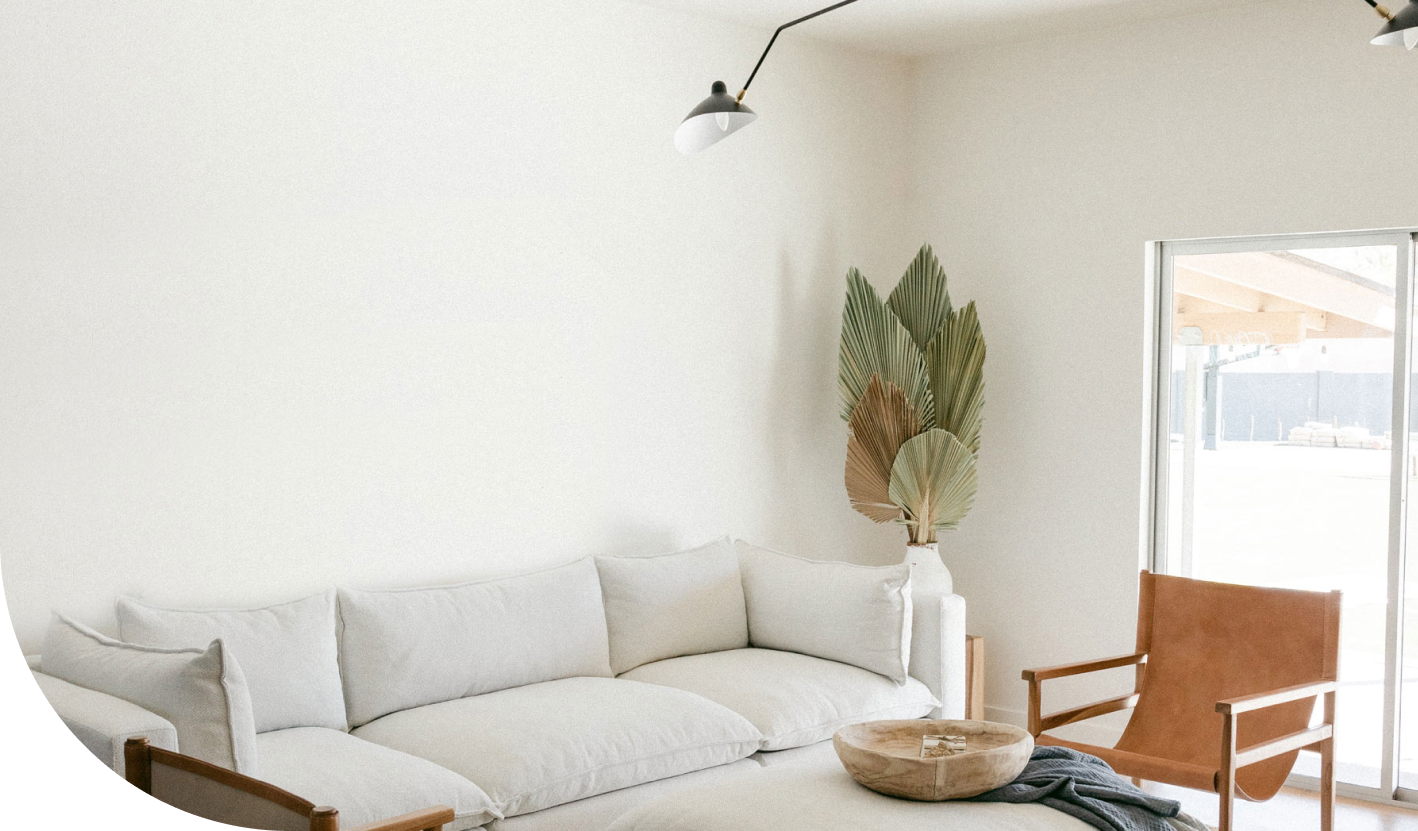
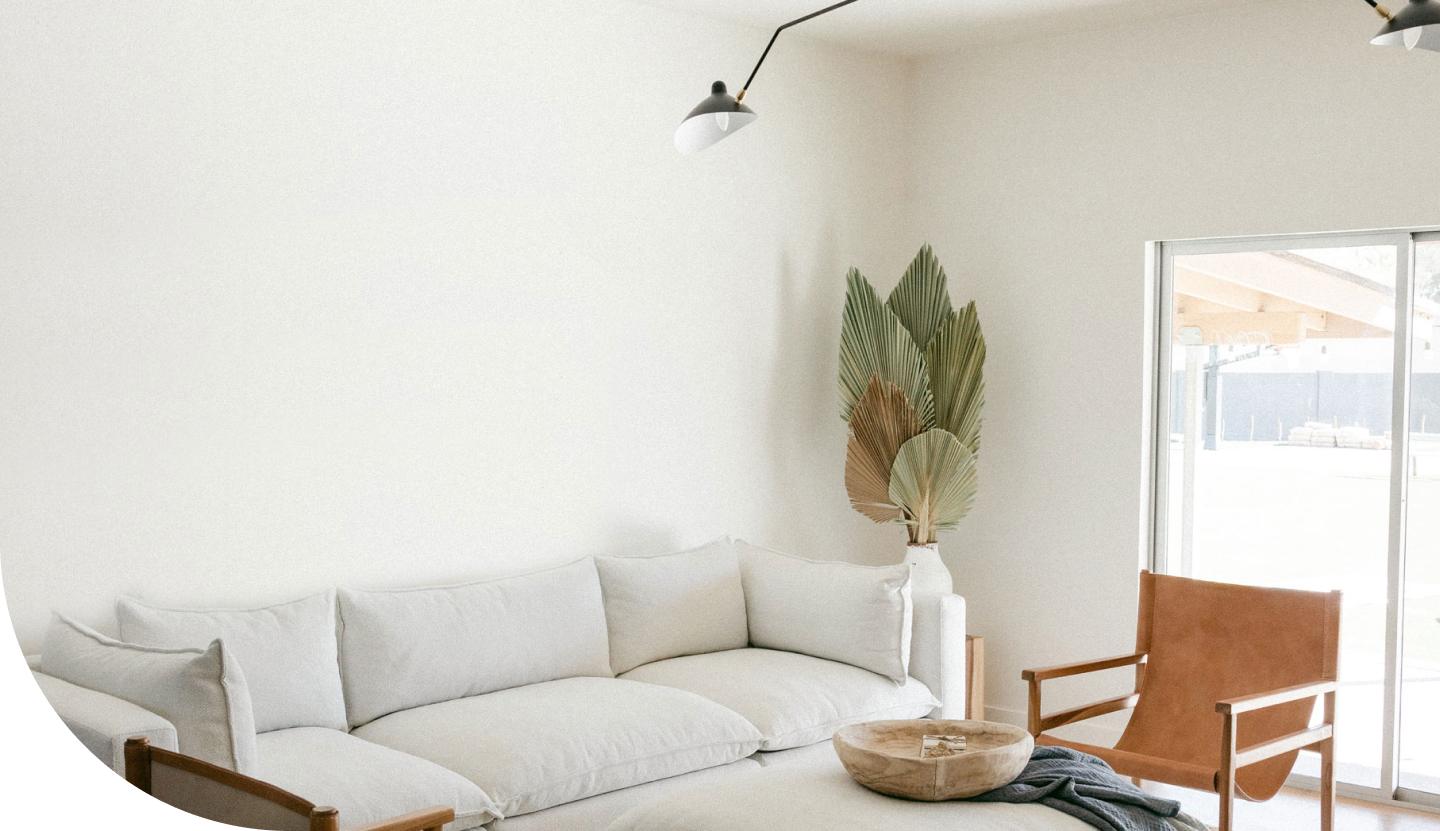
ыу

diff --git a/css/style.css b/css/style.css
@@ -77,9 +77,17 @@ body {
   color: #cda274;
 }
 
-.dream-container {
+.dream-section {
   background-image: url("../fotos/fon.png");
   height: 800px;
+  background-repeat: no-repeat;
+  margin-left: 80px;
+  border-radius: 0 0 0 290px;
+  width: 1440px;
+  height: 831px;
+}
+
+.dream-container {
   margin-bottom: 100px;
 }
 
